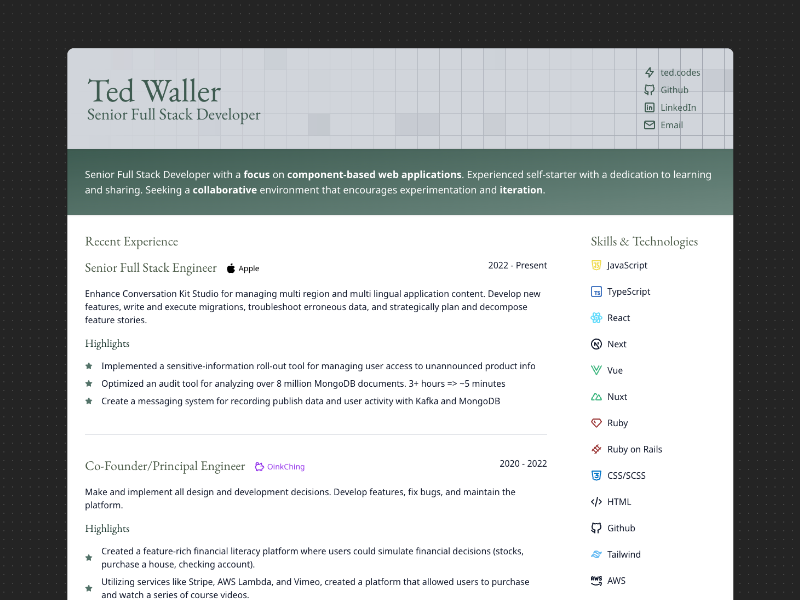
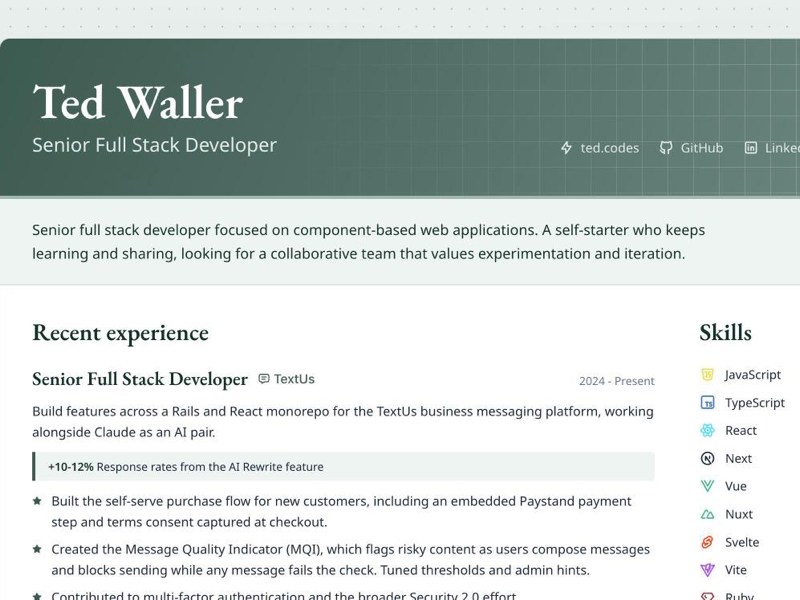
Update resume card chips and screenshot

diff --git a/src/content/projects/resume/index.md b/src/content/projects/resume/index.md
@@ -3,7 +3,7 @@ title: My Resume
 order: 5
 url: https://resume.ted.codes
 tool: react
-tech: [React, Vercel, shadcn/ui, MagicUI, CSS Animations, Responsive]
+tech: [React, TypeScript, Vite, Tailwind, shadcn/ui, MagicUI, Framer Motion, Vercel, Responsive, Print Styles]
 role: Design, develop, deploy.
 ---
 
